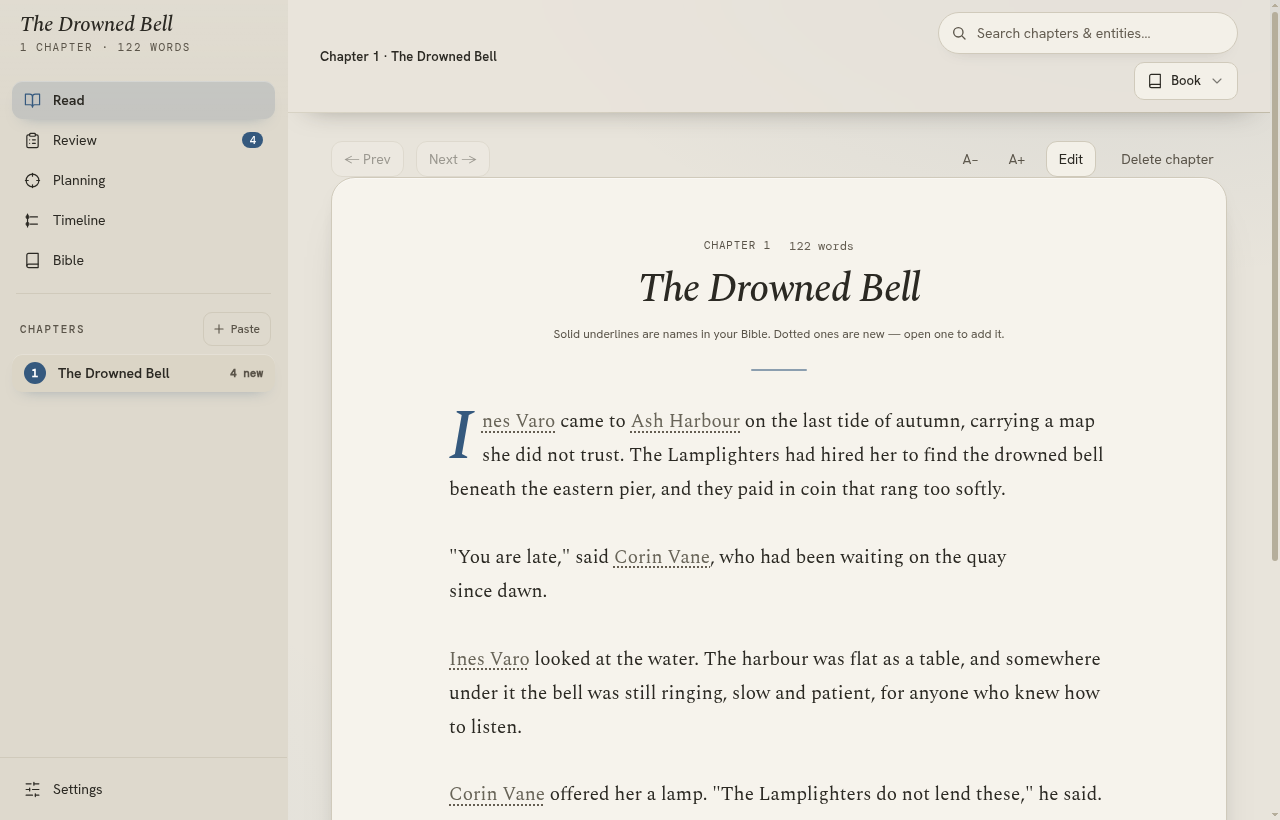
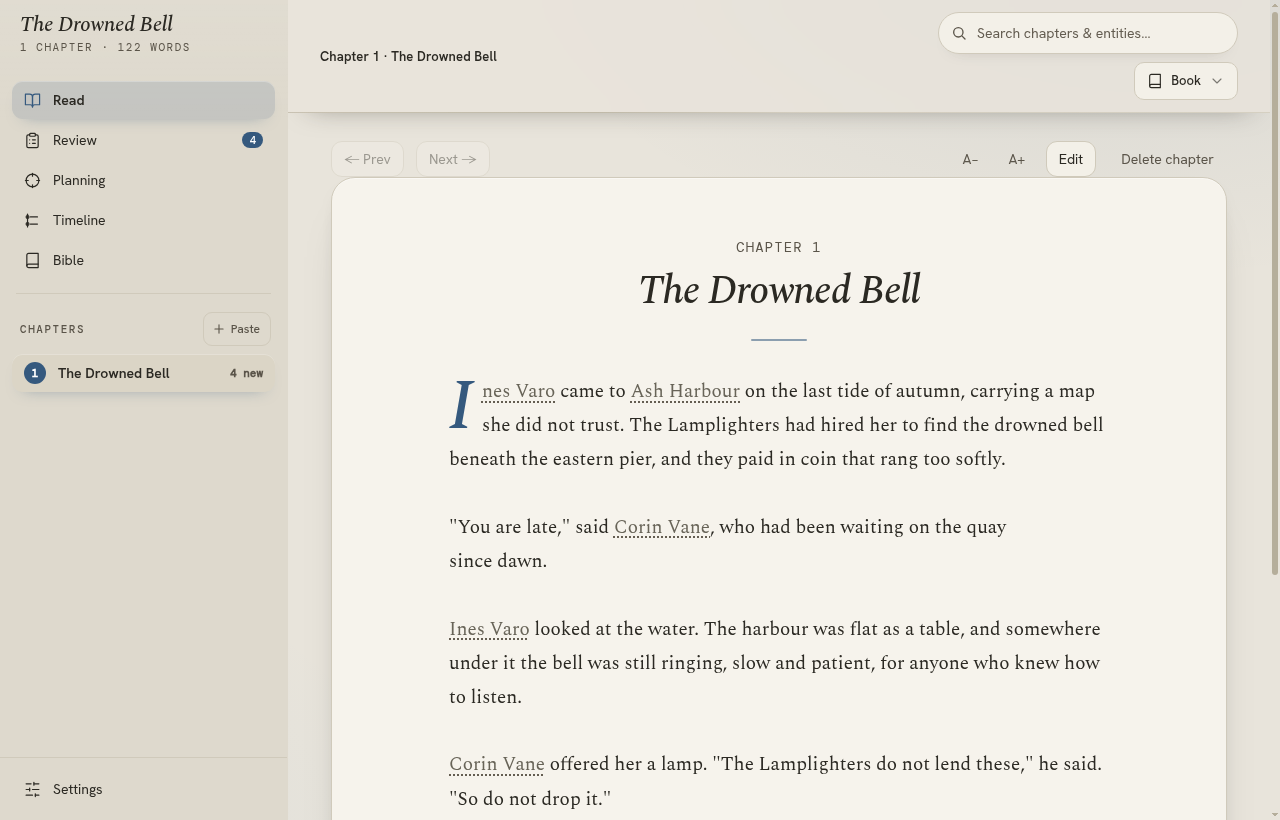
Read: word count with the end line, no legend; Settings: notes behind a "?"

diff --git a/src/views/SettingsView.tsx b/src/views/SettingsView.tsx
@@ -424,17 +424,28 @@ export default function SettingsView({ onClose }: { onClose: () => void }) {
       </section>
 
       <section className="card" style={{ marginBottom: 16 }}>
-        <h2 style={{ margin: '0 0 10px', fontSize: 16 }}>Export</h2>
-        <p className="card-note">
-          Writes the whole book to one Markdown file — every chapter’s current draft, the Bible and
-          Planning. Images, Trash and the Review queue stay behind.
-          {meta?.lastExportAt && <> Last exported {meta.lastExportAt}.</>}
-        </p>
+        <div className="set-head">
+          <h2 style={{ margin: 0, fontSize: 16 }}>Export</h2>
+          <details className="card-help">
+            <summary aria-label="About export">?</summary>
+            <div className="card-help__body">
+              <p className="card-note">
+                Writes the whole book to one Markdown file — every chapter’s current draft, the
+                Bible and Planning. Images, Trash and the Review queue stay behind.
+              </p>
+            </div>
+          </details>
+        </div>
         <div className="actions" style={{ marginTop: 0 }}>
           <button className="primary" disabled={exporting} onClick={exportBook}>
             {exporting ? 'Exporting…' : 'Export as Markdown'}
           </button>
         </div>
+        {meta && (
+          <p className="card-note" style={{ margin: '10px 0 0' }}>
+            {meta.lastExportAt ? `Last exported ${meta.lastExportAt}.` : 'Not exported yet.'}
+          </p>
+        )}
         <div className="field" style={{ marginTop: 12, marginBottom: 0 }}>
           <label htmlFor="set-nudge">Remind me to export</label>
           <select id="set-nudge" value={meta?.nudge ?? 'daily'} disabled={!meta} onChange={(e) => changeNudge(e.target.value)}>
@@ -444,25 +455,32 @@ export default function SettingsView({ onClose }: { onClose: () => void }) {
       </section>
 
       <section className="card" style={{ marginBottom: 16 }}>
-        <h2 style={{ margin: '0 0 10px', fontSize: 16 }}>Backup</h2>
-        <p className="card-note">
-          Saves a complete, self-contained copy of this book — the whole database, including
-          everything written since the last checkpoint.
-        </p>
-        <p className="card-note">
-          This book is one file: <code className="book-path">{meta?.bookPath || '…'}</code>
-        </p>
-        <p className="card-note">
-          {backupState?.backups.length
-            ? `An automatic snapshot is taken daily into ${backupState.dir} — the newest is ${new Date(
-                backupState.backups[0].mtime
-              ).toLocaleDateString()}, and the last five are kept.`
-            : 'Automatic snapshots start with your first chapter, and the last five are kept.'}
-        </p>
-        <p className="card-note">
-          To move a book to another computer, take that file with you and choose{' '}
-          <strong>Open book…</strong> there — every chapter, card and setting travels with it.
-        </p>
+        <div className="set-head">
+          <h2 style={{ margin: 0, fontSize: 16 }}>Backup</h2>
+          <details className="card-help">
+            <summary aria-label="About backups">?</summary>
+            <div className="card-help__body">
+              <p className="card-note">
+                Saves a complete, self-contained copy of this book — the whole database, including
+                everything written since the last checkpoint.
+              </p>
+              <p className="card-note">
+                This book is one file: <code className="book-path">{meta?.bookPath || '…'}</code>
+              </p>
+              <p className="card-note">
+                {backupState?.backups.length
+                  ? `An automatic snapshot is taken daily into ${backupState.dir} — the newest is ${new Date(
+                      backupState.backups[0].mtime
+                    ).toLocaleDateString()}, and the last five are kept.`
+                  : 'Automatic snapshots start with your first chapter, and the last five are kept.'}
+              </p>
+              <p className="card-note">
+                To move a book to another computer, take that file with you and choose{' '}
+                <strong>Open book…</strong> there — every chapter, card and setting travels with it.
+              </p>
+            </div>
+          </details>
+        </div>
         <div className="actions" style={{ marginTop: 0 }}>
           <button className="btn-secondary" disabled={backingUp} onClick={downloadBackup}>
             {backingUp ? 'Preparing…' : 'Download a backup'}

diff --git a/src/styles.css b/src/styles.css
@@ -965,16 +965,6 @@ textarea:focus {
   justify-content: space-between;
   gap: 8px;
 }
-.mark-legend {
-  margin: 0;
-  text-align: center;
-  font-size: 12px;
-  line-height: 1.5;
-  color: var(--color-text-secondary);
-}
-.mark-legend.is-hidden {
-  visibility: hidden;
-}
 .paper-title {
   margin: 0;
   font-family: var(--font-reading);
@@ -4953,6 +4943,8 @@ button.primary {
   margin-bottom: calc(34px * var(--density));
 }
 .paper-meta { justify-content: center; gap: 18px; }
+/* The kicker is the page's only label; give it enough size to hold the top. */
+.paper-meta .label-mono { font-size: 14px; }
 .paper-title {
   font-style: italic;
   font-weight: 500;
@@ -8031,6 +8023,55 @@ button.tl-link:hover {
 .bookmenu__row:focus-visible {
   outline: 2px solid var(--color-accent);
   outline-offset: -2px;
+}
+
+/* A card's explanation lives behind a small "?" instead of in the card face.
+   Opening it drops the note into the card above the controls. */
+.set-head {
+  position: relative;
+  margin-bottom: 10px;
+}
+.set-head > h2 {
+  padding-right: 40px;
+}
+/* The "?" hangs at the card's top-right; the note it opens stays in flow. */
+.card-help > summary {
+  position: absolute;
+  top: 0;
+  right: 0;
+  display: inline-flex;
+  align-items: center;
+  justify-content: center;
+  width: 26px;
+  height: 26px;
+  border: 1px solid var(--color-border-strong);
+  border-radius: 50%;
+  font-family: var(--font-mono);
+  font-size: 12px;
+  line-height: 1;
+  color: var(--color-text-secondary);
+  cursor: pointer;
+  list-style: none;
+}
+.card-help > summary::-webkit-details-marker {
+  display: none;
+}
+.card-help > summary:hover {
+  color: var(--color-text);
+}
+.card-help[open] > summary {
+  border-color: var(--color-accent);
+  color: var(--color-accent);
+}
+.card-help__body {
+  margin-top: 10px;
+  padding: 12px 14px;
+  border: 1px solid var(--color-border);
+  border-radius: var(--radius);
+  background: var(--color-base);
+}
+.card-help__body > .card-note:last-child {
+  margin-bottom: 0;
 }
 
 /* The keyboard list is reference, so it folds down to one row until asked for.

diff --git a/src/views/ReadView.tsx b/src/views/ReadView.tsx
@@ -326,19 +326,8 @@ export default function ReadView({
                   ) : (
                     <h1 className="label-mono">Chapter {chapterNumber(chapter)}</h1>
                   )}
-                  <span className="progress">{chapter.word_count.toLocaleString('en-US')} words</span>
                 </div>
                 {chapter.title ? <h1 className="paper-title">{chapter.title}</h1> : null}
-                {detail!.candidates.length > 0 ? (
-                  // Kept in the layout while editing so the prose does not jump
-                  // a line when Edit is pressed.
-                  <p
-                    className={`mark-legend${editing ? ' is-hidden' : ''}`}
-                    aria-hidden={editing || undefined}
-                  >
-                    Solid underlines are names in your Bible. Dotted ones are new — open one to add it.
-                  </p>
-                ) : null}
               </div>
               {editing ? (
                 <textarea
@@ -366,7 +355,10 @@ export default function ReadView({
               )}
               {!editing && (
                 <div className="chapter-end">
-                  <span>End of Chapter {chapterNumber(chapter)}</span>
+                  <span>
+                    End of Chapter {chapterNumber(chapter)} ·{' '}
+                    {chapter.word_count.toLocaleString('en-US')} words
+                  </span>
                   {idx >= chapters.length - 1 ? (
                     <button onClick={toTop}>Back to top</button>
                   ) : (
